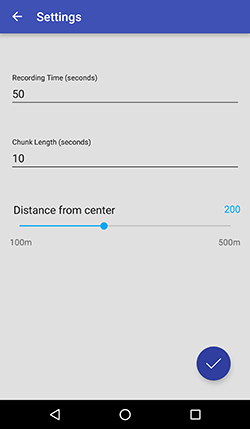
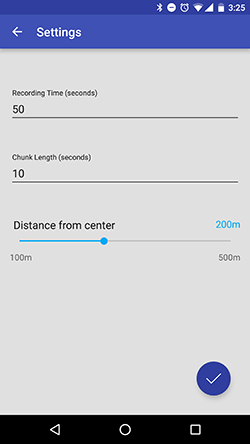
Improve logs and archive process

diff --git a/app/src/main/java/ca/uqac/florentinth/speakerauthentication/SettingsActivity.java b/app/src/main/java/ca/uqac/florentinth/speakerauthentication/SettingsActivity.java
@@ -70,7 +70,7 @@ public class SettingsActivity extends AppCompatActivity {
 
         if(distanceFromCenter != -1) {
             seekBarDistance.setProgress(distanceFromCenter);
-            distanceValue.setText(String.valueOf(distanceFromCenter));
+            distanceValue.setText(String.valueOf(distanceFromCenter) + "m");
 
         }
 
